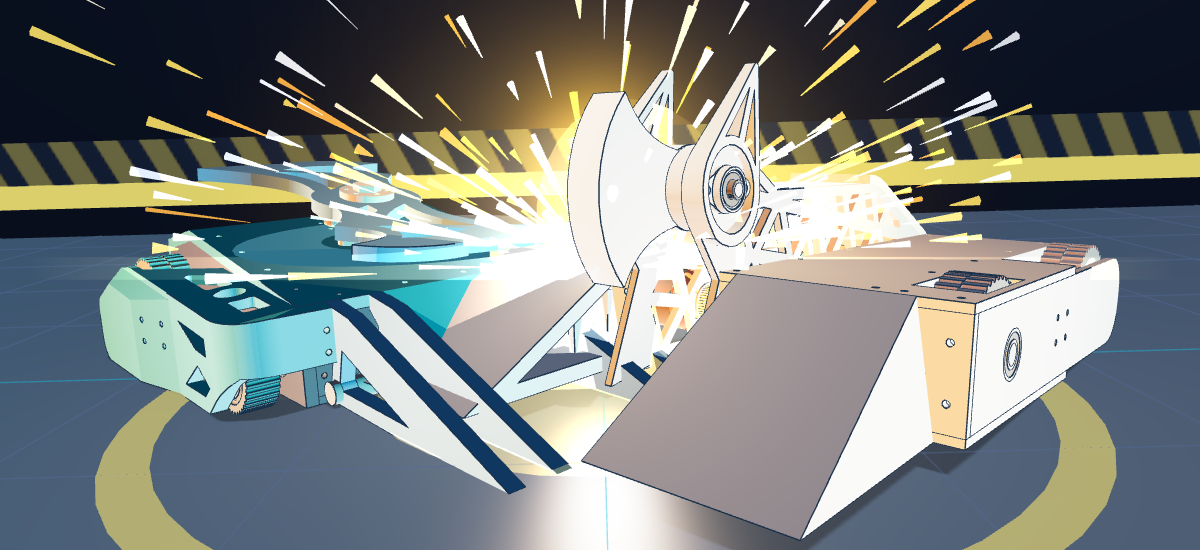
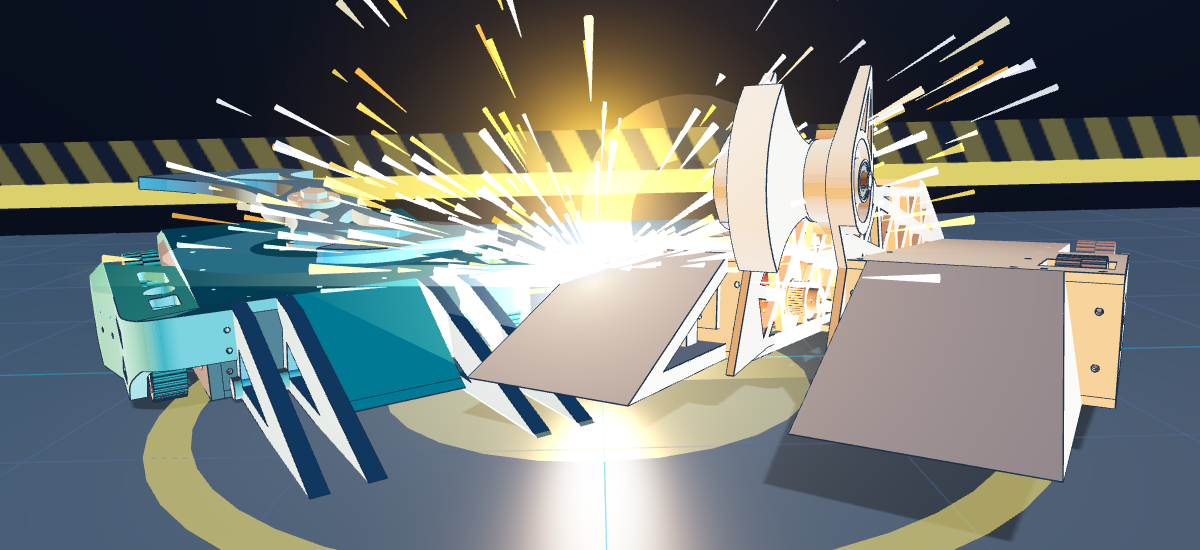
fix(menu): resolve model clipping in cover art and rename badge to BATTLEBOTx

diff --git a/index.html b/index.html
@@ -1352,7 +1352,7 @@
       <div class="hero-illustration">
         <img class="hero-cover-img" src="cover_robot1_robot2.png" alt="BATTLEBOTx Championship Clash" />
         <div class="hero-cover-overlay"></div>
-        <span class="hero-badge">PRO ARENA</span>
+        <span class="hero-badge">BATTLEBOTx</span>
       </div>
 
       <nav class="menu-actions" aria-label="Game modes">
